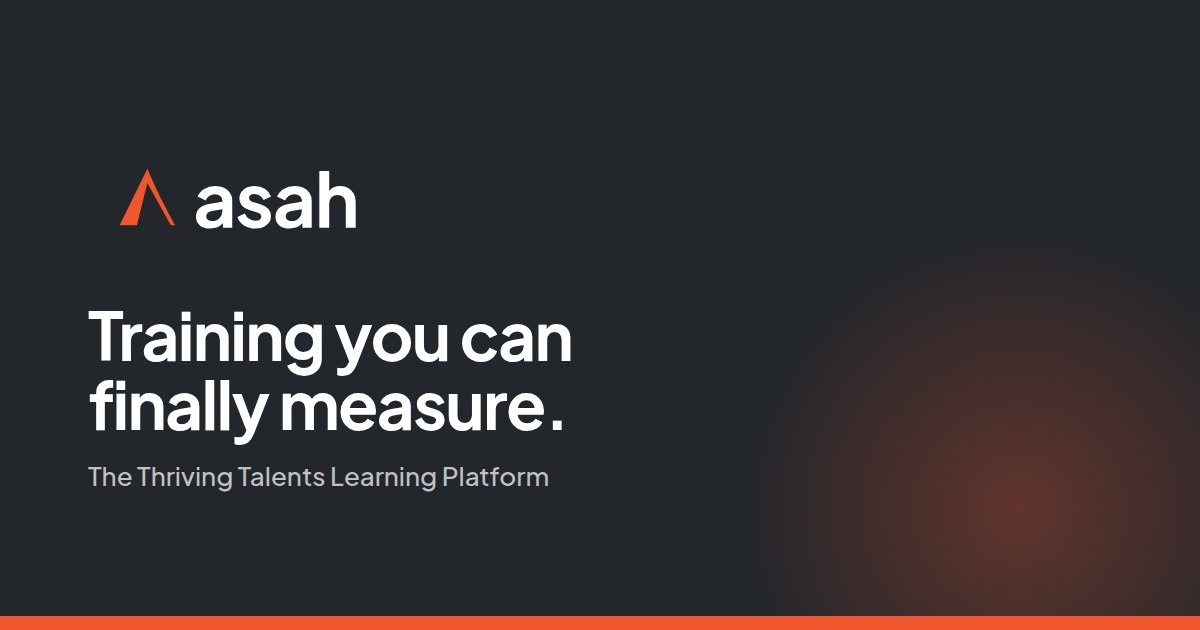
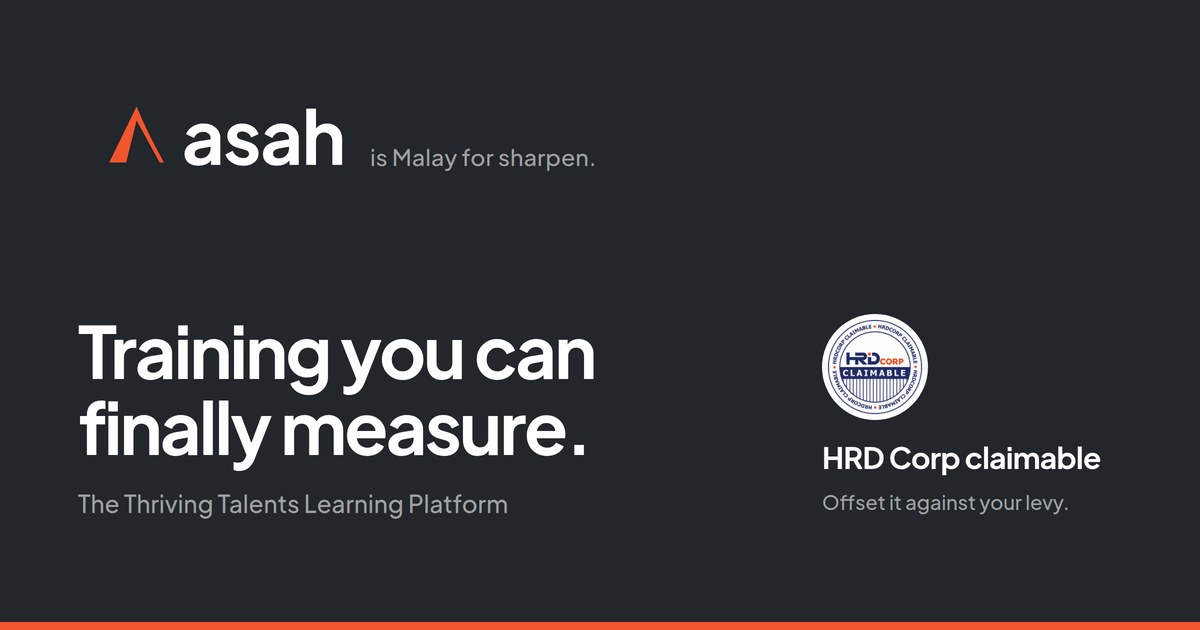
Rebuild the share card on the Asah guide, with the credential in place of ornament
The old card was already Asah, but off-guide and half empty: a Spark
radial glow filled the right-hand third, and the guide's Don't list rules
out effects and gradients. It also spent Spark three times — mark, glow
and bottom bar — against a one-accent-per-surface rule.

Now: flat Graphite, the header lockup with its "is Malay for sharpen."
tagline so the card matches the page, and one Spark accent along the
bottom. The right column carries the HRD Corp claimable badge and one
line about the levy, on the white disc the badge is drawn for — navy
artwork straight onto Graphite goes muddy and the ring type vanishes.

A decorative enlargement of the mark was tried there first and dropped.
It read as a grey mountain, and a link skimmed in a WhatsApp group is
earned by the credential, not by ornament.

Source kept at tools/og-image.html so the card can be regenerated.

Claude-Session: https://claude.ai/code/session_017QtqxnwnK9QQZnM2eb5CB4

Changed region(s): [[0.0, 0.4825, 1.0, 0.9952], [0.0617, 0.4825, 0.4933, 0.8143], [0.0925, 0.181, 0.4933, 0.3619]]

diff --git a/tools/og-image.html b/tools/og-image.html
@@ -1,0 +1,124 @@
+<!-- Source for assets/og-image.jpg (1200x630, the Open Graph share card).
+     To regenerate: open this file at exactly 1200x630 and screenshot it at
+     2x, then downsample to 1200x630 and save as JPEG q88. The 2x render is
+     what keeps the wordmark edges clean after JPEG. Paths are relative, so
+     open it from tools/. -->
+<style>
+  @font-face {
+    font-family: "Asah"; font-weight: 700; font-display: block;
+    src: url("../assets/fonts/asah-bold.woff2") format("woff2");
+  }
+  @font-face {
+    font-family: "Asah"; font-weight: 500; font-display: block;
+    src: url("../assets/fonts/asah-medium.woff2") format("woff2");
+  }
+  * { margin: 0; padding: 0; box-sizing: border-box; }
+  html, body { width: 1200px; height: 630px; }
+  body {
+    background: #23262B;
+    font-family: "Asah", sans-serif;
+    position: relative;
+    overflow: hidden;
+  }
+
+  .frame {
+    position: relative;
+    height: 100%;
+    padding: 76px 78px 0;
+    display: grid;
+    grid-template-columns: 1fr 300px;
+    grid-template-rows: auto 1fr;
+    column-gap: 60px;
+  }
+
+  /* Same lockup as the site header: the wordmark supplies "asah" and the
+     tagline continues the sentence on its baseline. A replaced element with
+     baseline alignment puts its bottom margin edge on the text baseline, and
+     the SVG box hangs 9.211% of its width below the wordmark - hence the
+     negative margin rather than a guessed offset. */
+  .lock { grid-column: 1 / -1; grid-row: 1; display: block; margin-bottom: 58px; }
+  .lock img {
+    display: inline-block; vertical-align: baseline;
+    width: 296px;
+    margin-bottom: -27.26px;
+  }
+  .lock .tag {
+    font-weight: 500; font-size: 23px; line-height: 1.3;
+    color: rgba(255,255,255,.58);
+    letter-spacing: .01em;
+    margin-left: -3.9px;
+  }
+
+  .say { grid-column: 1; grid-row: 2; align-self: center; padding-bottom: 30px; }
+  h1 {
+    font-weight: 700;
+    font-size: 72px;
+    line-height: 1.06;
+    letter-spacing: -.035em;
+    color: #FFFFFF;
+    max-width: 600px;
+  }
+  .sub {
+    margin-top: 24px;
+    font-weight: 500;
+    font-size: 24px;
+    letter-spacing: .005em;
+    color: rgba(255,255,255,.58);
+  }
+
+  /* The right column carries the credential rather than ornament. A shared
+     link gets skimmed in a WhatsApp group; what earns the tap is "we can
+     claim this", not a decorative mark. */
+  .proof {
+    grid-column: 2; grid-row: 2;
+    align-self: center;
+    padding-bottom: 30px;
+    display: flex;
+    flex-direction: column;
+    gap: 20px;
+  }
+  /* The badge is navy artwork drawn for a white ground. Dropped straight onto
+     Graphite it goes muddy and the ring type disappears, so it keeps its disc. */
+  .badge {
+    width: 106px; height: 106px; border-radius: 50%;
+    background: #FFFFFF;
+    display: flex; align-items: center; justify-content: center;
+  }
+  .badge img { display: block; width: 94px; height: 94px; }
+  .proof b {
+    font-weight: 700; font-size: 30px; line-height: 1.15;
+    letter-spacing: -.022em; color: #FFFFFF;
+  }
+  .proof .note {
+    font-weight: 500; font-size: 20px; line-height: 1.45;
+    color: rgba(255,255,255,.58);
+    margin-top: -8px;
+  }
+
+  /* The single Spark accent the brand guide allows per surface. */
+  .rule {
+    position: absolute;
+    left: 0; right: 0; bottom: 0;
+    height: 8px;
+    background: #F0552E;
+  }
+</style>
+
+<div class="frame">
+  <span class="lock"
+    ><img src="../assets/asah-logo-on-dark.svg" alt=""
+    ><span class="tag">is Malay for sharpen.</span></span>
+
+  <div class="say">
+    <h1>Training you can<br>finally measure.</h1>
+    <p class="sub">The Thriving Talents Learning Platform</p>
+  </div>
+
+  <div class="proof">
+    <span class="badge"><img src="../assets/hrdc-claimable.png" alt=""></span>
+    <b>HRD&nbsp;Corp claimable</b>
+    <p class="note">Offset it against your levy.</p>
+  </div>
+</div>
+
+<div class="rule"></div>

diff --git a/README.md b/README.md
@@ -150,6 +150,21 @@ piece of attacker-controlled text in the message.
 transparent, generated from `assets/asah-logo-on-dark.svg`. It has to stay
 publicly reachable at `SITE_URL + LOGO_PATH` or the embed falls back to text.
 
+### The share card
+
+`assets/og-image.jpg` is the 1200x630 Open Graph card. Its source is
+`tools/og-image.html` — open that at exactly 1200x630, screenshot at 2x, then
+downsample and save as JPEG q88. The 2x render is what keeps the wordmark edges
+clean once JPEG has had it.
+
+It follows the same rules as everything else on-brand: flat Graphite ground (the
+guide's Don't list rules out gradients and glows), the header lockup with its
+tagline, and exactly one Spark accent — the rule along the bottom. The right
+column carries the HRD Corp badge rather than a decorative mark, on the white
+disc it is drawn for: navy artwork straight onto Graphite goes muddy and the
+ring type disappears. A shared link is skimmed in a WhatsApp group, and the
+thing that earns the tap is the credential, not ornament.
+
 `SITE_URL` is `https://asah.thrivingtalents.com`. It is the one setting that has
 to match the live domain: point it somewhere unreachable and the email still
 sends, silently, with a text wordmark instead of the logo. `index.html` uses the
